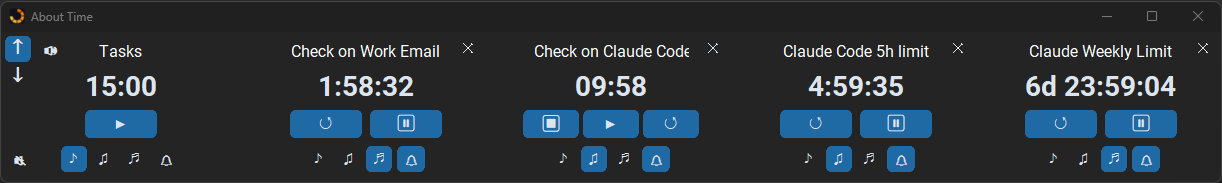
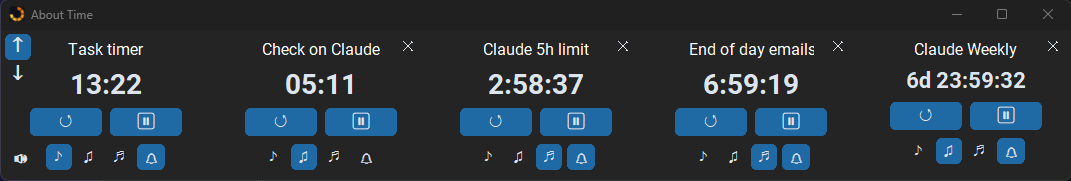
v0.12.0b

diff --git a/README.md b/README.md
@@ -4,7 +4,7 @@
   <img src="Assets/hero_banner.png" alt="About Time — five simultaneous timers in row layout, each independently named, running, or finished">
 </p>
 
-![Version](https://img.shields.io/badge/version-v0.10.0-blue)
+![Version](https://img.shields.io/badge/version-v0.12.0-blue)
 ![Language](https://img.shields.io/badge/language-Python-3776AB?logo=python&logoColor=white)
 ![Platform](https://img.shields.io/badge/platform-Windows-0078D4?logo=windows&logoColor=white)
 ![Status](https://img.shields.io/badge/status-Active%20Development-orange)
@@ -39,15 +39,19 @@ No Python or code needed.
 
 ## Features
 
+<img src="Assets/always_on_top.png" alt="A single timer with the always-on-top tooltip showing that the window is pinned above other windows" align="right" width="240">
+
 - **Always-on-top toggle** — pin the window so it floats above everything else on screen
 - Run between from between **1 to 5 countdown timers** at once, each allowing a unique name and sound or popup notification setting.
 - Custom time input per timer, supporting up to 30 days: plain number input is assumed to be minutes, otherwise you can suffix with `s`/`m`/`h`/`d` for a single unit and mix units in one go — `3h14m`, `1d2h15m`
 - Click the countdown display to edit the time at any point — even with on-going timers.
 - **Windows desktop notifications** — opt-in toast alerts when a timer finishes, toggled per timer, showing that timer's name or duration if untitled
 
+<br clear="right">
+
 ### Sounds
 
-<img src="Assets/single_timer_sound_picker.png" alt="A single timer in stack mode with its sound picker active" align="right" width="240">
+<img src="Assets/single_timer_sound_picker.png" alt="A single timer in stack mode with the volume tooltip showing the app's current volume and right-click to mute" align="right" width="240">
 
 - Three notification chimes — short, medium, and long, designed as a consistent family
 - Each timer has its own sound picker — pick short, medium, or long, or click the active one again to turn that timer's sound off
@@ -69,12 +73,17 @@ No Python or code needed.
 - Window position, timer count, timer names and durations should all be remembered between sessions
 - Mid-run and paused timers restore at their remaining time on reopen — ready to resume or reset, no progress lost on accidental close
 - Settings such as sound choice, always-on-top, notification toggle and more are written to %appdata%\About Time\settings.json - if you need the file for some reason, check appdata roaming.
+- If `settings.json` ever becomes unreadable or corrupted, About Time keeps the bad file as `settings.json.bak` next to it, rather than overwriting it, and starts fresh with defaults.
 
 <br clear="right">
 
 ## Known Issues / Notes
 
 - **First launch should always start at 50% volume, not your system default.** This is intentional, not a bug: a brand-new Windows audio session for an app defaults to 100%, and About Time's own volume lives entirely in Windows' per-app Volume Mixer (see Sounds above). Because of this combination of settings, it's a risk that the first alarm is VERY LOUD for users who may have high speak settings, so I've pre-lowered the volume to soften that. You can always edit this yourself if you find it too quiet. 
+
+### Error log
+
+If something goes wrong, About Time writes a short timestamped note to `error.log` in `%appdata%\About Time\`, the same folder as `settings.json`. It's useful to attach when reporting a bug. The log is capped at 256 KB: past that, the old one is kept as `error.log.old` and a fresh one starts.
 
 ## Tech Stack
 
